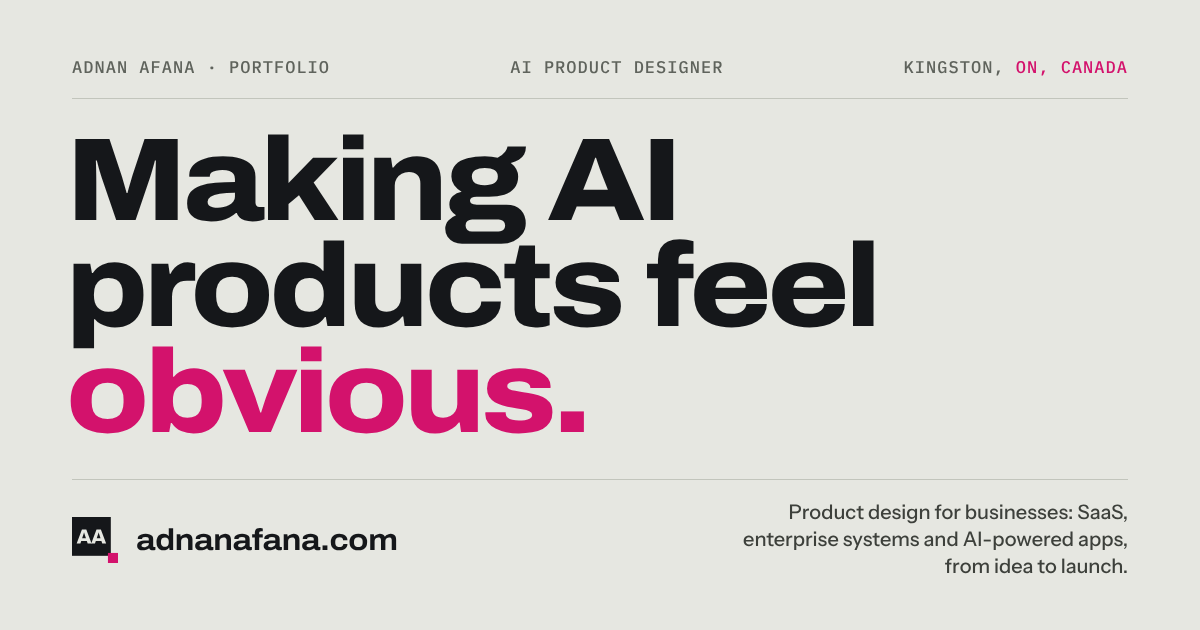
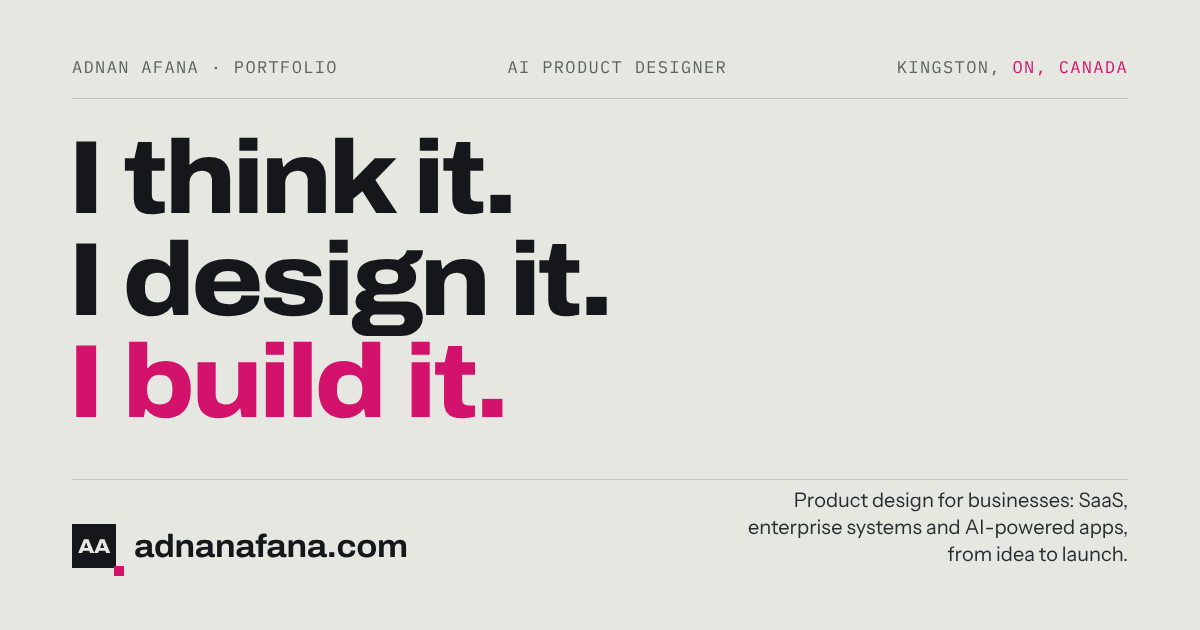
Hero: "I think it. I design it. I build it." with the last line highlighted; refresh share image
Claude-Session: https://claude.ai/code/session_01WiQQLu2y6u4XCW3kEvRh6d

diff --git a/index.html b/index.html
@@ -23,20 +23,20 @@
 <meta property="og:site_name" content="Adnan Afana">
 <meta property="og:locale" content="en_CA">
 <meta property="og:url" content="https://adnanafana.com/">
-<meta property="og:title" content="Adnan Afana — Making AI products feel obvious">
+<meta property="og:title" content="Adnan Afana — I think it. I design it. I build it.">
 <meta property="og:description" content="AI Product Designer helping businesses design and launch SaaS, enterprise systems and AI-powered apps, from idea to launch.">
 <meta property="og:image" content="https://adnanafana.com/assets/og-image.png">
 <meta property="og:image:secure_url" content="https://adnanafana.com/assets/og-image.png">
 <meta property="og:image:type" content="image/png">
 <meta property="og:image:width" content="1200">
 <meta property="og:image:height" content="630">
-<meta property="og:image:alt" content="Adnan Afana, AI Product Designer in Kingston, Ontario: Making AI products feel obvious.">
+<meta property="og:image:alt" content="Adnan Afana, AI Product Designer in Kingston, Ontario: I think it. I design it. I build it.">
 <!-- X / Twitter -->
 <meta name="twitter:card" content="summary_large_image">
-<meta name="twitter:title" content="Adnan Afana — Making AI products feel obvious">
+<meta name="twitter:title" content="Adnan Afana — I think it. I design it. I build it.">
 <meta name="twitter:description" content="AI Product Designer helping businesses design and launch SaaS, enterprise systems and AI-powered apps.">
 <meta name="twitter:image" content="https://adnanafana.com/assets/og-image.png">
-<meta name="twitter:image:alt" content="Adnan Afana, AI Product Designer in Kingston, Ontario: Making AI products feel obvious.">
+<meta name="twitter:image:alt" content="Adnan Afana, AI Product Designer in Kingston, Ontario: I think it. I design it. I build it.">
 
 <!-- structured data for search engines -->
 <script type="application/ld+json">
@@ -114,9 +114,9 @@
     <canvas class="field" id="field" aria-hidden="true"></canvas>
     <div class="hero-eyebrow mono" data-fade><span>AI Product Designer</span><span>UX · UI · Business consultant</span><span><span>Based in</span> <b>ON, Canada</b></span></div>
     <h1 id="heroTitle">
-      <span class="line"><span class="li">Making AI</span></span>
-      <span class="line"><span class="li">products feel</span></span>
-      <span class="line"><span class="li"><em>obvious.</em></span></span>
+      <span class="line"><span class="li">I think it.</span></span>
+      <span class="line"><span class="li">I design it.</span></span>
+      <span class="line"><span class="li"><em>I build it.</em></span></span>
     </h1>
     <div class="hero-foot">
       <p class="hero-lead" data-fade><span class="sr-only">I create, tailor and evolve digital products, including enterprise systems, SaaS, and AI-powered apps, from idea to launch and beyond.</span><span aria-hidden="true"><span>I</span> <span class="rot" id="rot"><span class="is-in">create</span><span>tailor</span><span>evolve</span></span> <span>digital products, including enterprise systems, SaaS, and AI-powered apps, from idea to launch and beyond.</span></span></p>
